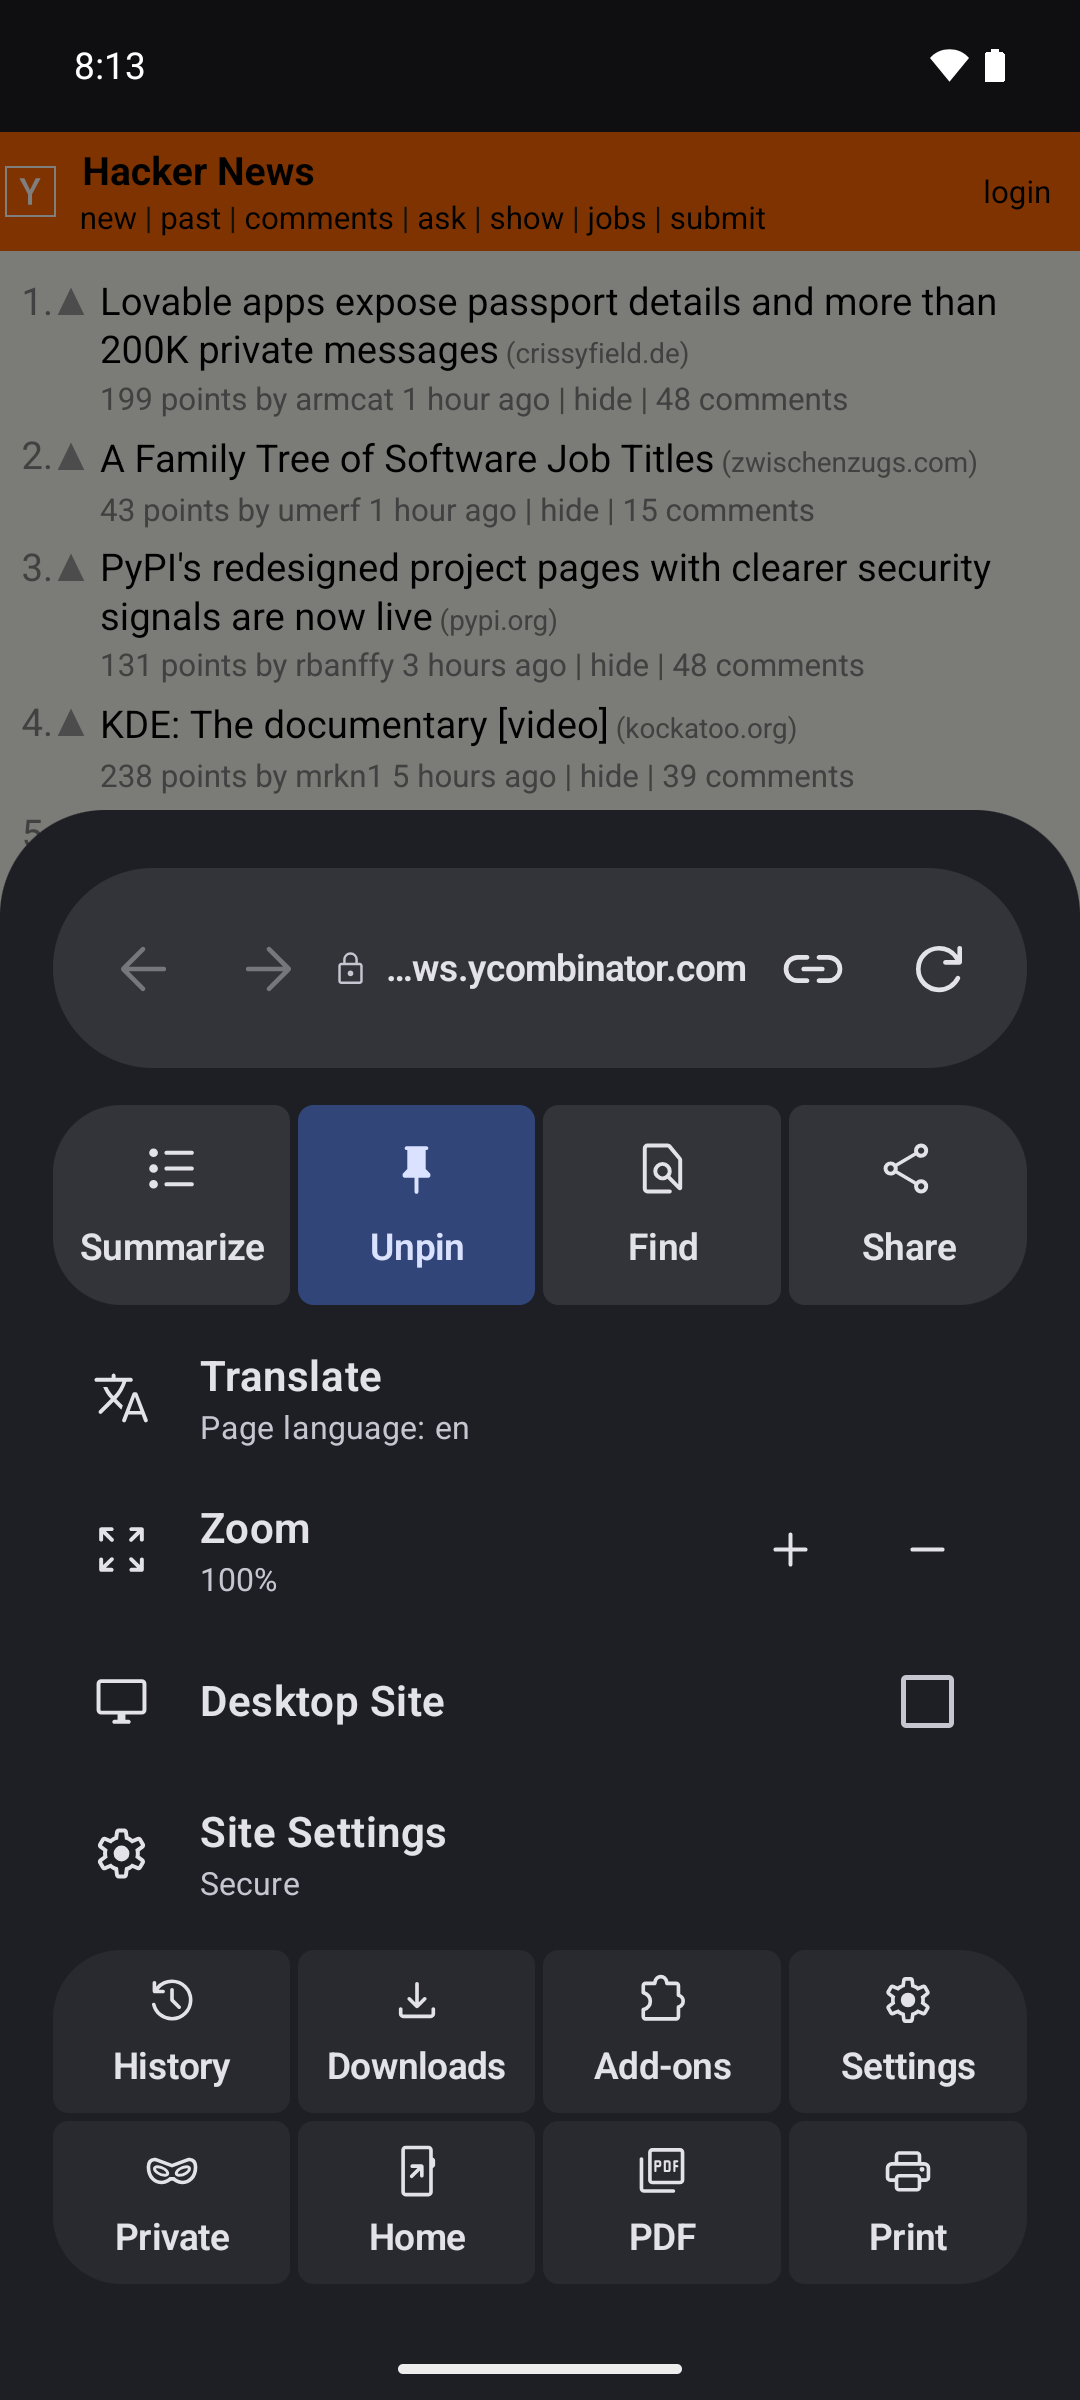
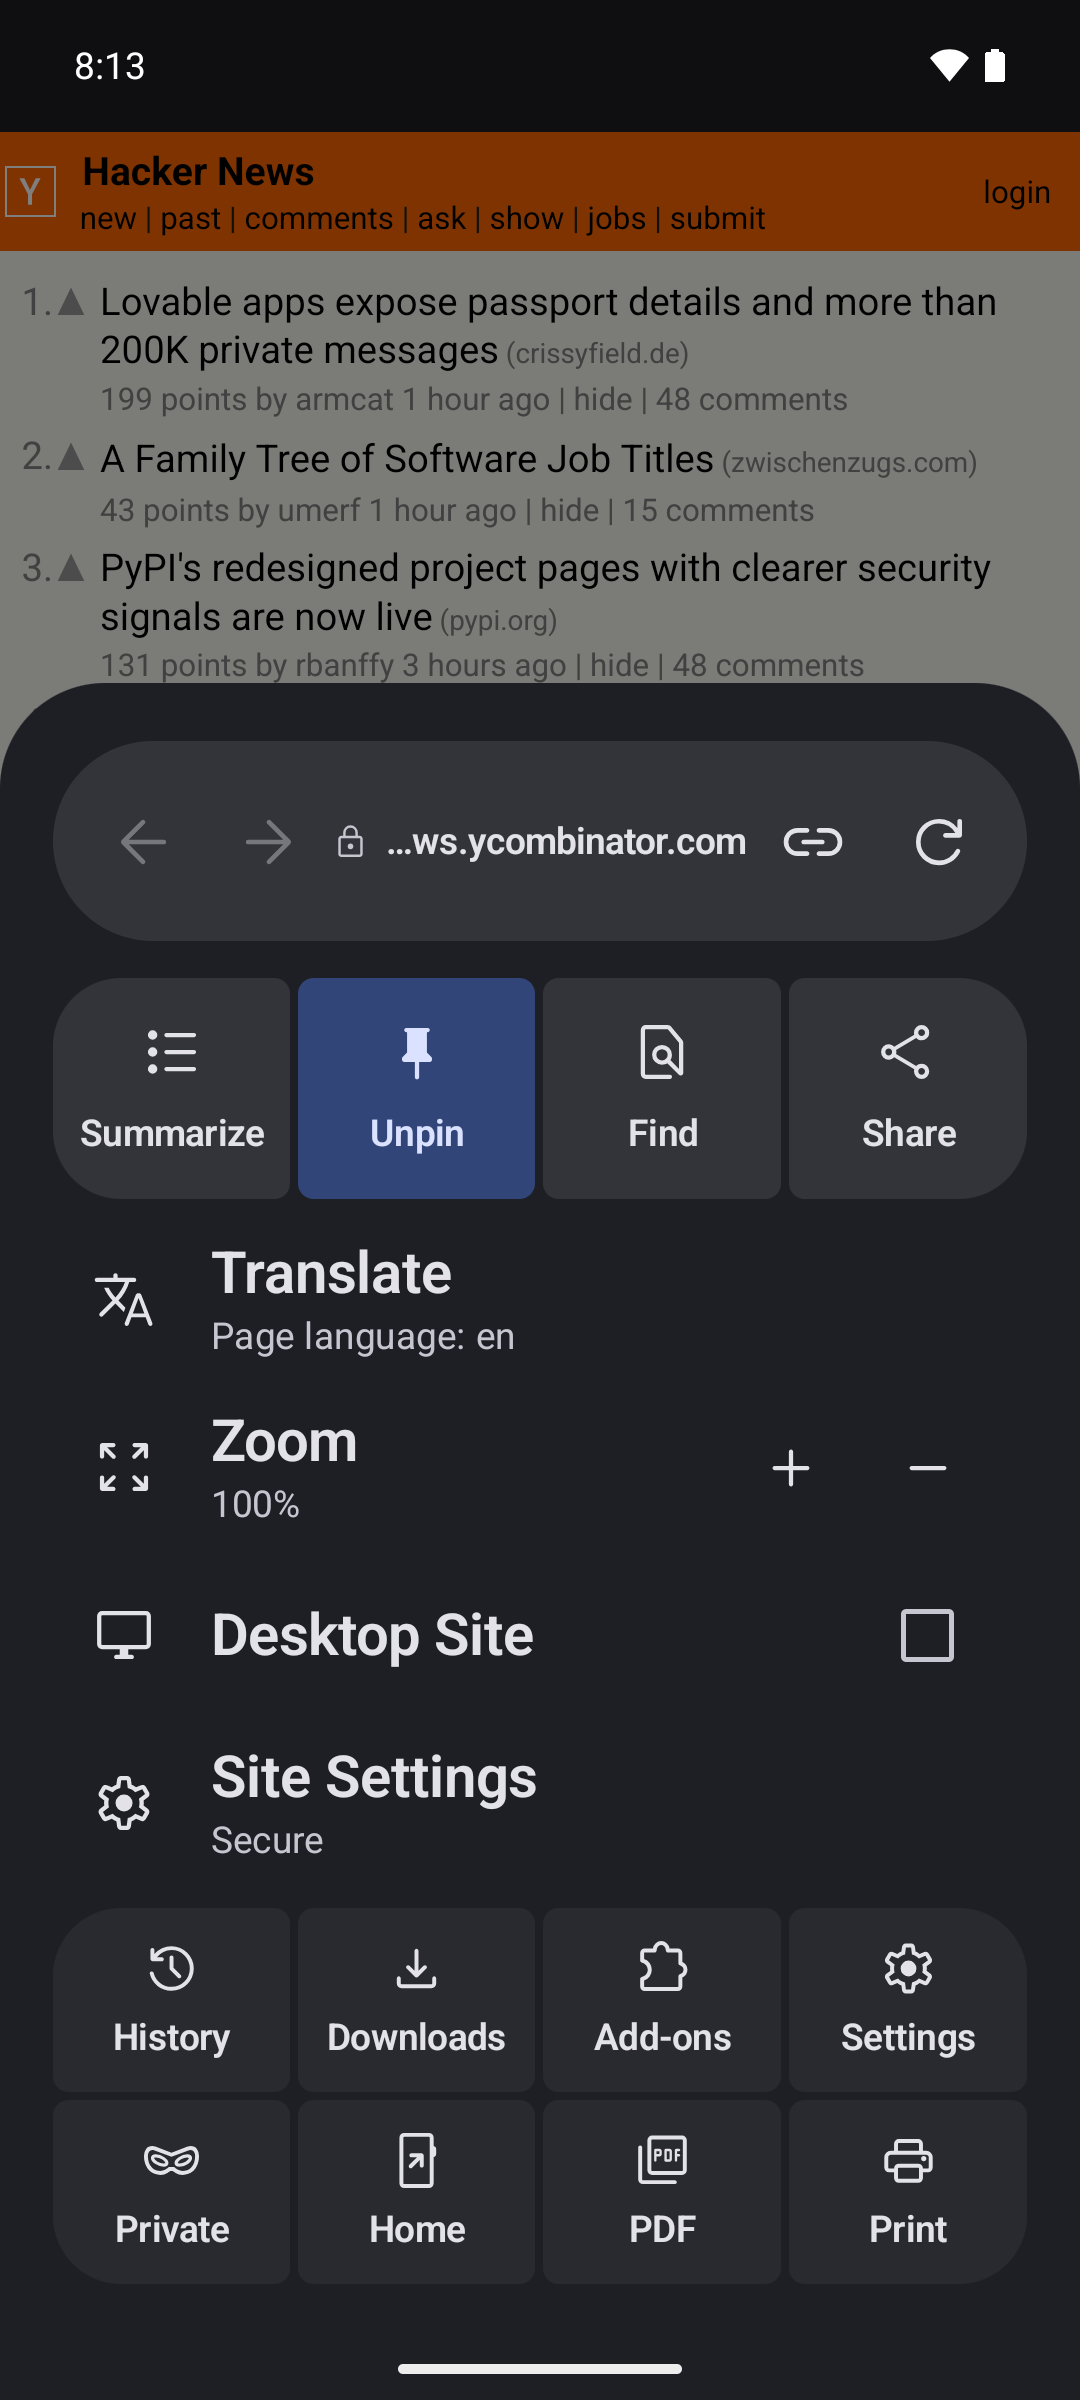
Ark 1.3.3: menu a little bigger
Tiles, rows, icons and text one step up from 1.3.2.

diff --git a/app/src/main/java/dev/vis/ark/ui/MenuSheet.kt b/app/src/main/java/dev/vis/ark/ui/MenuSheet.kt
@@ -101,7 +101,7 @@ fun MenuSheetContent(tab: Tab?, onAction: (MenuAction) -> Unit, onDismiss: () ->
                 Triple(Sym.FindInPage, "Find") { onAction(MenuAction.Find) },
                 Triple(Sym.Share, "Share") { tab?.let { Browser.host?.share(it.title, it.url) } },
             ),
-            selected = { it == 1 && pinned }, height = 76.dp,
+            selected = { it == 1 && pinned }, height = 84.dp, iconSize = 26.dp,
         )
 
         Spacer(Modifier.height(6.dp))
@@ -117,9 +117,9 @@ fun MenuSheetContent(tab: Tab?, onAction: (MenuAction) -> Unit, onDismiss: () ->
         }
         MenuRow(Sym.Translate, "Translate", translateSub, onClick = { onAction(MenuAction.Translate) })
         MenuRow(Sym.ZoomOutMap, "Zoom", "${((tab?.zoom ?: 1f) * 100).toInt()}%", onClick = null) {
-            IconButton(onClick = { tab?.let { Browser.setZoom(it, it.zoom + 0.1f) } }, enabled = tab != null) { MIcon(Sym.Add, "Zoom in", Modifier.size(24.dp)) }
+            IconButton(onClick = { tab?.let { Browser.setZoom(it, it.zoom + 0.1f) } }, enabled = tab != null) { MIcon(Sym.Add, "Zoom in", Modifier.size(26.dp)) }
             Spacer(Modifier.width(4.dp))
-            IconButton(onClick = { tab?.let { Browser.setZoom(it, it.zoom - 0.1f) } }, enabled = tab != null) { MIcon(Sym.Remove, "Zoom out", Modifier.size(24.dp)) }
+            IconButton(onClick = { tab?.let { Browser.setZoom(it, it.zoom - 0.1f) } }, enabled = tab != null) { MIcon(Sym.Remove, "Zoom out", Modifier.size(26.dp)) }
         }
         MenuRow(Sym.DesktopWindows, "Desktop Site", null, onClick = { tab?.let { Browser.setDesktop(it, !it.desktop) } }) {
             Checkbox(checked = tab?.desktop == true, onCheckedChange = { c -> tab?.let { Browser.setDesktop(it, c) } }, enabled = tab != null)
@@ -140,7 +140,7 @@ fun MenuSheetContent(tab: Tab?, onAction: (MenuAction) -> Unit, onDismiss: () ->
                 Triple(Sym.Download, "Downloads") { onAction(MenuAction.Downloads) },
                 Triple(Sym.Extension, "Add-ons") { onAction(MenuAction.Extensions) },
                 Triple(Sym.Settings, "Settings") { onAction(MenuAction.Settings) },
-            ), height = 62.dp, iconSize = 22.dp, container = cs.surfaceContainerHigh, bottomRow = false,
+            ), height = 70.dp, iconSize = 24.dp, container = cs.surfaceContainerHigh, bottomRow = false,
         )
         Spacer(Modifier.height(3.dp))
         ConnectedRow(
@@ -149,7 +149,7 @@ fun MenuSheetContent(tab: Tab?, onAction: (MenuAction) -> Unit, onDismiss: () ->
                 Triple(Sym.AddToHomeScreen, "Home") { onAction(MenuAction.HomeScreen) },
                 Triple(Sym.PictureAsPdf, "PDF") { onAction(MenuAction.Pdf) },
                 Triple(Sym.Print, "Print") { onAction(MenuAction.Print) },
-            ), height = 62.dp, iconSize = 22.dp, container = cs.surfaceContainerHigh, topRow = false,
+            ), height = 70.dp, iconSize = 24.dp, container = cs.surfaceContainerHigh, topRow = false,
         )
         Spacer(Modifier.height(8.dp))
     }
@@ -160,17 +160,17 @@ private fun MenuRow(icon: String, title: String, subtitle: String?, onClick: (()
     Row(
         Modifier
             .fillMaxWidth()
-            .height(58.dp)
+            .height(64.dp)
             .clip(RoundedCornerShape(18.dp))
             .then(if (onClick != null) Modifier.clickable(onClick = onClick) else Modifier)
             .padding(horizontal = 14.dp),
         verticalAlignment = Alignment.CenterVertically,
     ) {
-        MIcon(icon, null, Modifier.size(24.dp))
-        Spacer(Modifier.width(18.dp))
+        MIcon(icon, null, Modifier.size(26.dp))
+        Spacer(Modifier.width(20.dp))
         Column(Modifier.weight(1f)) {
-            Text(title, style = MaterialTheme.typography.titleMedium)
-            if (subtitle != null) Text(subtitle, style = MaterialTheme.typography.bodySmall, color = MaterialTheme.colorScheme.onSurfaceVariant, maxLines = 1, overflow = TextOverflow.Ellipsis)
+            Text(title, style = MaterialTheme.typography.titleLarge)
+            if (subtitle != null) Text(subtitle, style = MaterialTheme.typography.bodyMedium, color = MaterialTheme.colorScheme.onSurfaceVariant, maxLines = 1, overflow = TextOverflow.Ellipsis)
         }
         if (trailing != null) Box { Row(verticalAlignment = Alignment.CenterVertically) { trailing() } }
     }
